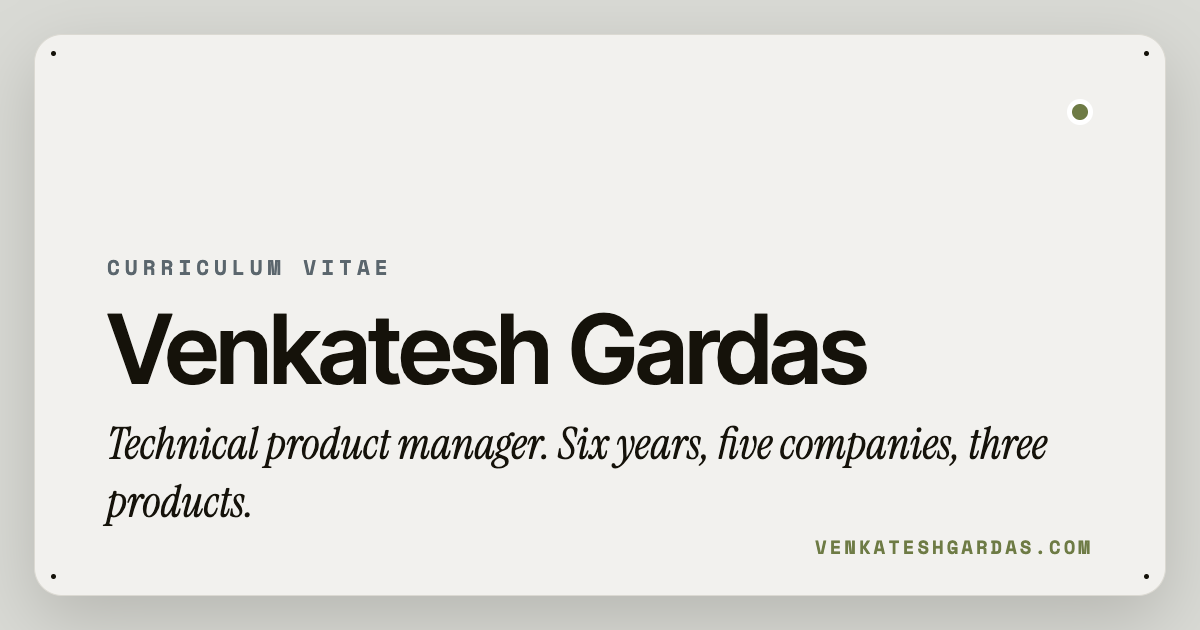
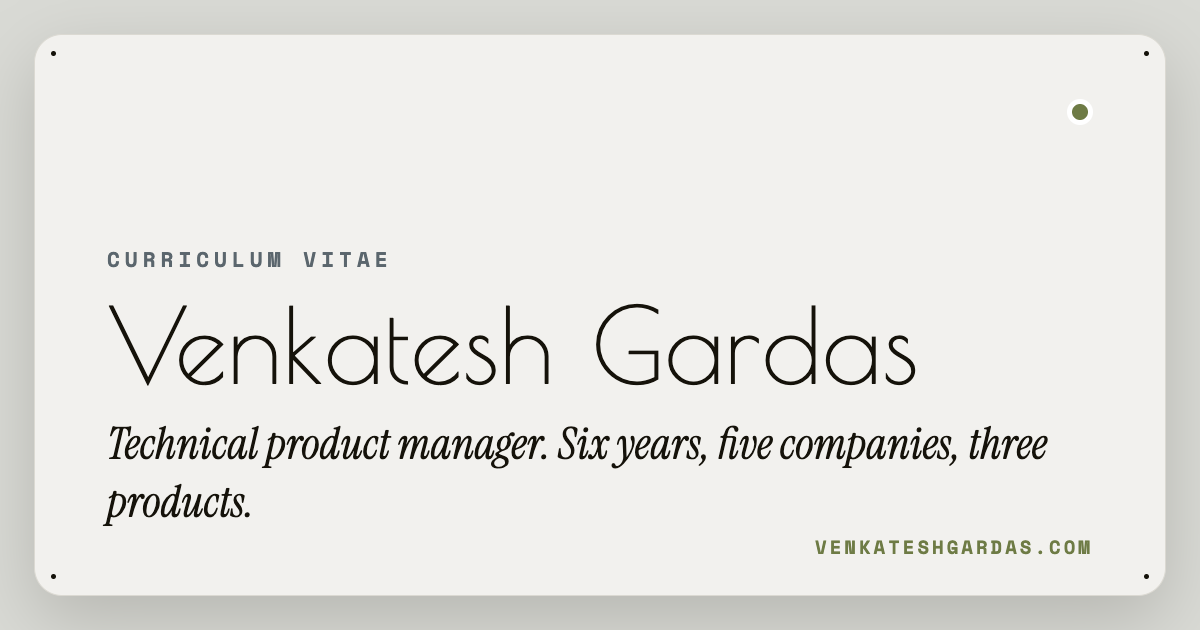
Option B: Poiret One returns for the name
Venky's chosen font carries his name in the homepage hero and on the
CV page, at slightly larger size to give the thin face presence.
Everything else keeps the Ozsoy bold-plus-italic voice. The two OG
cards that show the name regenerated in Poiret to match.

Changed region(s): [[0.0925, 0.4825, 0.7708, 0.6333], [0.0925, 0.3921, 0.3392, 0.4524]]

diff --git a/styles.css b/styles.css
@@ -141,8 +141,8 @@ img{max-width:100%;}
 }
 .vhead .eyebrow::before{content:"\2726  ";}
 .vhead h1{
-  margin:0 0 .7rem;font-family:var(--font-body);font-weight:700;
-  font-size:clamp(2.6rem,5.4vw,4.4rem);line-height:1;letter-spacing:-.02em;color:var(--ink);
+  margin:0 0 .7rem;font-family:"Poiret One",var(--font-body);font-weight:400;font-synthesis-weight:none;
+  font-size:clamp(2.9rem,6vw,5rem);line-height:1;letter-spacing:.01em;color:var(--ink);
 }
 .vhead .sub{
   margin:0 auto 1.8rem;max-width:44ch;
@@ -172,6 +172,8 @@ img{max-width:100%;}
 .btn:hover{background:#2A2519;}
 .btn.ghost{background:#FFFFFF;color:var(--ink);border:1px solid var(--glass-line);}
 .btn.ghost:hover{border-color:var(--ink);}
+
+h1.poname{font-family:"Poiret One",var(--font-body);font-weight:400;font-synthesis-weight:none;letter-spacing:.01em;font-size:clamp(2.4rem,4.8vw,3.7rem);}
 
 /* ---- detail-page hero ---- */
 .phero{grid-template-columns:1.05fr 1fr;gap:1.2rem;padding:1.2rem 2rem 0;}

diff --git a/cv.html b/cv.html
@@ -16,7 +16,7 @@
 <link rel="canonical" href="https://venkateshgardas.com/cv">
 <link rel="icon" href="/favicon.ico" sizes="48x48">
 <link rel="apple-touch-icon" href="/apple-touch-icon.png">
-<link rel="stylesheet" href="/styles.css?v=23">
+<link rel="stylesheet" href="/styles.css?v=24">
 </head>
 <body>
 <a class="skip" href="#main">Skip to content</a>
@@ -42,7 +42,7 @@
   <section class="row phero" id="main">
     <div class="cell lead on-blue">
       <span class="mono">Curriculum Vitae</span>
-      <h1>Venkatesh Gardas</h1>
+      <h1 class="poname">Venkatesh Gardas</h1>
       <p class="say">Technical product manager. Five plus years in fintech and enterprise software, from writing the code to owning the roadmap.</p>
     </div>
     <div class="cell plate">

diff --git a/notes/pitstop-realtime.html b/notes/pitstop-realtime.html
@@ -16,7 +16,7 @@
 <link rel="canonical" href="https://venkateshgardas.com/notes/pitstop-realtime">
 <link rel="icon" href="/favicon.ico" sizes="48x48">
 <link rel="apple-touch-icon" href="/apple-touch-icon.png">
-<link rel="stylesheet" href="/styles.css?v=23">
+<link rel="stylesheet" href="/styles.css?v=24">
 <link rel="alternate" type="application/rss+xml" title="Field notes" href="/rss.xml">
 </head>
 <body>

diff --git a/expenzing.html b/expenzing.html
@@ -16,7 +16,7 @@
 <link rel="canonical" href="https://venkateshgardas.com/expenzing">
 <link rel="icon" href="/favicon.ico" sizes="48x48">
 <link rel="apple-touch-icon" href="/apple-touch-icon.png">
-<link rel="stylesheet" href="/styles.css?v=23">
+<link rel="stylesheet" href="/styles.css?v=24">
 </head>
 <body>
 <a class="skip" href="#main">Skip to content</a>

diff --git a/colophon.html b/colophon.html
@@ -16,7 +16,7 @@
 <link rel="canonical" href="https://venkateshgardas.com/colophon">
 <link rel="icon" href="/favicon.ico" sizes="48x48">
 <link rel="apple-touch-icon" href="/apple-touch-icon.png">
-<link rel="stylesheet" href="/styles.css?v=23">
+<link rel="stylesheet" href="/styles.css?v=24">
 </head>
 <body>
 <a class="skip" href="#main">Skip to content</a>

diff --git a/pitstop.html b/pitstop.html
@@ -16,7 +16,7 @@
 <link rel="canonical" href="https://venkateshgardas.com/pitstop">
 <link rel="icon" href="/favicon.ico" sizes="48x48">
 <link rel="apple-touch-icon" href="/apple-touch-icon.png">
-<link rel="stylesheet" href="/styles.css?v=23">
+<link rel="stylesheet" href="/styles.css?v=24">
 </head>
 <body>
 <a class="skip" href="#main">Skip to content</a>

diff --git a/photos.html b/photos.html
@@ -16,7 +16,7 @@
 <link rel="canonical" href="https://venkateshgardas.com/photos">
 <link rel="icon" href="/favicon.ico" sizes="48x48">
 <link rel="apple-touch-icon" href="/apple-touch-icon.png">
-<link rel="stylesheet" href="/styles.css?v=23">
+<link rel="stylesheet" href="/styles.css?v=24">
 </head>
 <body>
 <a class="skip" href="#main">Skip to content</a>

diff --git a/saathi.html b/saathi.html
@@ -16,7 +16,7 @@
 <link rel="canonical" href="https://venkateshgardas.com/saathi">
 <link rel="icon" href="/favicon.ico" sizes="48x48">
 <link rel="apple-touch-icon" href="/apple-touch-icon.png">
-<link rel="stylesheet" href="/styles.css?v=23">
+<link rel="stylesheet" href="/styles.css?v=24">
 </head>
 <body>
 <a class="skip" href="#main">Skip to content</a>

diff --git a/kpmg.html b/kpmg.html
@@ -16,7 +16,7 @@
 <link rel="canonical" href="https://venkateshgardas.com/kpmg">
 <link rel="icon" href="/favicon.ico" sizes="48x48">
 <link rel="apple-touch-icon" href="/apple-touch-icon.png">
-<link rel="stylesheet" href="/styles.css?v=23">
+<link rel="stylesheet" href="/styles.css?v=24">
 </head>
 <body>
 <a class="skip" href="#main">Skip to content</a>

diff --git a/roko.html b/roko.html
@@ -16,7 +16,7 @@
 <link rel="canonical" href="https://venkateshgardas.com/roko">
 <link rel="icon" href="/favicon.ico" sizes="48x48">
 <link rel="apple-touch-icon" href="/apple-touch-icon.png">
-<link rel="stylesheet" href="/styles.css?v=23">
+<link rel="stylesheet" href="/styles.css?v=24">
 </head>
 <body>
 <a class="skip" href="#main">Skip to content</a>

diff --git a/notes/index.html b/notes/index.html
@@ -18,7 +18,7 @@
 <link rel="icon" href="/favicon.ico" sizes="48x48">
 <link rel="apple-touch-icon" href="/apple-touch-icon.png">
 <link rel="stylesheet" href="/fonts.css">
-<link rel="stylesheet" href="/styles.css?v=23">
+<link rel="stylesheet" href="/styles.css?v=24">
 </head>
 <body>
 <a class="skip" href="#main">Skip to content</a>

diff --git a/now.html b/now.html
@@ -17,7 +17,7 @@
 <link rel="icon" href="/favicon.ico" sizes="48x48">
 <link rel="apple-touch-icon" href="/apple-touch-icon.png">
 <link rel="stylesheet" href="/fonts.css">
-<link rel="stylesheet" href="/styles.css?v=23">
+<link rel="stylesheet" href="/styles.css?v=24">
 </head>
 <body>
 <a class="skip" href="#main">Skip to content</a>
